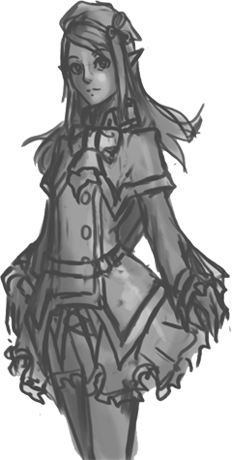
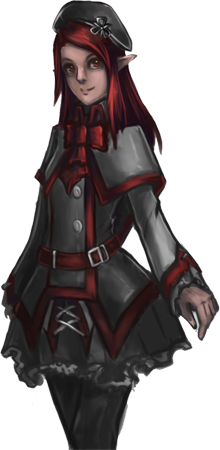
Resource file change and fix on dialogue
One dialogue was missing from the Toybox. Added in.

Fix on Liel and Enfys image file.

diff --git a/Ahntrolan/src/Stage2/Block.js b/Ahntrolan/src/Stage2/Block.js
@@ -1,0 +1,35 @@
+var Block = cc.Sprite.extend({
+    ctor: function( x1, y1, x2, y2 ) {
+        this._super();
+        this.initWithFile( 'res/images/ground.png',
+                           cc.rect( 0, 0, x2-x1, y2 - y1 ) );
+        this.setAnchorPoint( cc.p( 0, 0 ) );
+        this.setPosition( cc.p( x1, y1 ) );
+    },
+
+    getTopY: function() {
+        return cc.rectGetMaxY( this.getBoundingBoxToWorld() );
+    },
+
+    hitTop: function( oldRect, newRect ) {
+        var brect = this.getBoundingBoxToWorld();
+        if ( cc.rectGetMinY( oldRect ) >= cc.rectGetMaxY( brect ) ) {
+            var loweredNewRect = cc.rect( newRect.x,
+                                          newRect.y - 1,
+                                          newRect.width,
+                                          newRect.height + 1 );
+            var uRect = cc.rectUnion( oldRect, loweredNewRect );
+            return cc.rectIntersectsRect( uRect, brect );
+        }
+        return false;
+    },
+
+    onTop: function( rect ) {
+        var brect = this.getBoundingBoxToWorld();
+        var bminx = cc.rectGetMinX( brect );
+        var bmaxx = cc.rectGetMaxX( brect );
+        var minx = cc.rectGetMinX( rect );
+        var maxx = cc.rectGetMaxX( rect );
+        return ( minx <= bmaxx ) && ( bminx <= maxx );
+    }
+});

diff --git a/Ahntrolan/src/objects/ToyboxObject.js b/Ahntrolan/src/objects/ToyboxObject.js
@@ -25,9 +25,15 @@ var ToyboxObject = cc.Sprite.extend({
             
             }
           
-           else if( ( point >=3 ) && ( this.convo4 == false ) ) {
+           else if( ( point >=3 ) && ( point < 5 ) && ( this.convo4 == false ) ) {
 
                 this.convo4A();    
+            
+            }
+          
+           else if( ( point >= 5 ) ) {
+
+                this.convo6A();    
             
             }
       }
@@ -83,6 +89,14 @@ var ToyboxObject = cc.Sprite.extend({
         
         //point = 4
         
+    },
+    
+     convo6A: function( ){
+      
+        var names = ["Enfys"];
+        var texts = ["Sadly, now isn't the time."];
+        
+        this.layer.createDialogueBox(names, texts);
     },
     
     setPlayer: function ( player ) {

diff --git a/Ahntrolan/src/Game.js b/Ahntrolan/src/Game.js
@@ -6,10 +6,13 @@ var Game = cc.LayerColor.extend({
         this.scheduleUpdate();
         
         this.gameLayer = new GameLayer( this );
+ //       this.gameLayer = new GameLayer2( );
         this.gameLayer.setPosition ( new cc.Point (  0, 0 ) ) ;
         this.addChild( this.gameLayer );
         this.gameLayer.scheduleUpdate();
         
+//        this.player = this.gameLayer.getPlayer()
+//        this.camera.follow(this.player);
         
         this.setKeyboardEnabled( true );
         console.log( 'GameLayer created' );
@@ -25,6 +28,7 @@ var Game = cc.LayerColor.extend({
         this.gameLayer.setPosition ( new cc.Point (  0, 0 ) ) ;
         this.addChild( this.gameLayer );
         this.gameLayer.scheduleUpdate();
+            
             
     },
     

diff --git a/Ahntrolan/src/Stage2/Stage1.js b/Ahntrolan/src/Stage2/Stage1.js
@@ -1,0 +1,12 @@
+var Stage1 = cc.Sprite.extend({
+    ctor: function() {
+        this._super();
+        this.initWithFile( 'images/background/Stage2PlaceHolder.png' );
+        
+        this.leftWallX = -30;
+        this.rightWallX = 790;
+        
+  //      cc.AudioEngine.getInstance().playMusic( 'sfx/bgm/stage2.mp3', true );
+    },
+    
+});

diff --git a/Ahntrolan/src/Stage2/GameLayer2.js b/Ahntrolan/src/Stage2/GameLayer2.js
@@ -3,7 +3,7 @@ var GameLayer2 = cc.Node.extend({
         
         this._super();
         
-        this.background = new Background2();
+        this.background = new Stage1( );
         this.background.setPosition ( new cc.Point (  screenWidth/2, screenHeight/2 ) ) ;
         this.addChild( this.background , 1 );
         

diff --git a/Ahntrolan/src/Background.js b/Ahntrolan/src/Background.js
@@ -6,7 +6,8 @@ var Background = cc.Sprite.extend({
         this.leftWallX = -30;
         this.rightWallX = 790;
         
-    //    cc.AudioEngine.getInstance().playMusic( 'sfx/bgm/int1.mp3', true );
+    // cc.AudioEngine.getInstance().playMusic( 'sfx/bgm/int1.mp3', true );
+        
     },
     
 });

diff --git a/Ahntrolan/cocos2d.js b/Ahntrolan/cocos2d.js
@@ -15,7 +15,7 @@
             'src/Game.js',
             'src/GameLayer.js',
             'src/Stage2/GameLayer2.js', 
-            'src/Stage2/Background2.js',
+            'src/Stage2/Stage1.js',
             'src/Player.js',
             'src/resource.js',
             'src/Background.js',

diff --git a/Ahntrolan/src/resource.js b/Ahntrolan/src/resource.js
@@ -1,7 +1,6 @@
 var g_resources = [
     
     //image
-    {src: 'images/enfys/placeholder1.png'},
     {src: 'images/enfys/Ewalkleft.png'},
     {src: 'images/enfys/Ewalkright.png'},
     {src: 'images/background/Int1Background.png'},

diff --git a/Ahntrolan/src/GameLayer.js b/Ahntrolan/src/GameLayer.js
@@ -248,6 +248,11 @@ var GameLayer = cc.Node.extend({
         this.player.moveRight = false;
     },
     
+    getPlayer: function( ){
+     
+        return this.player;
+    },
+    
 });
 
 
